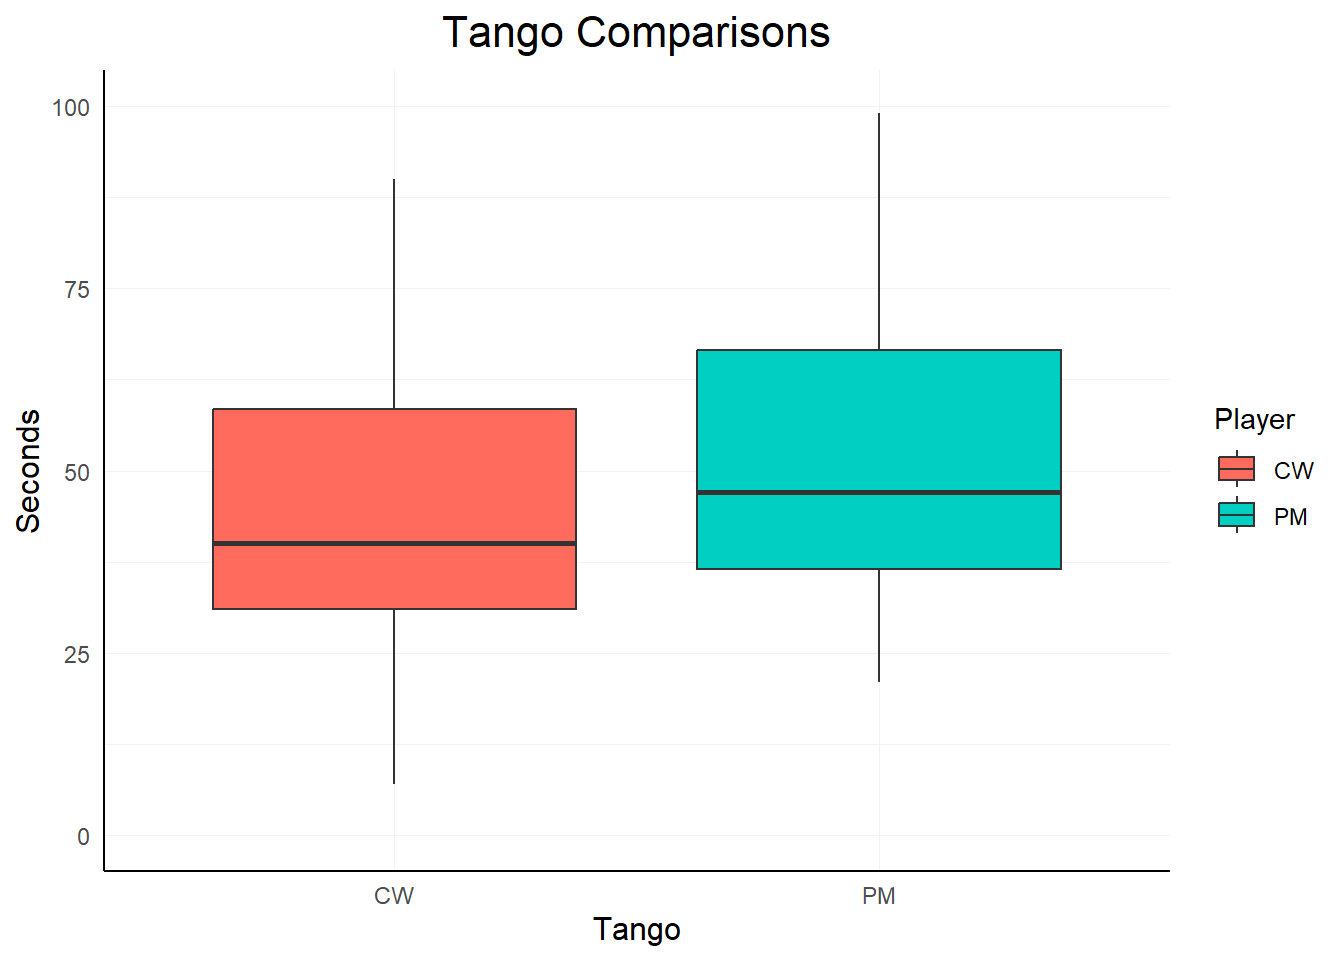
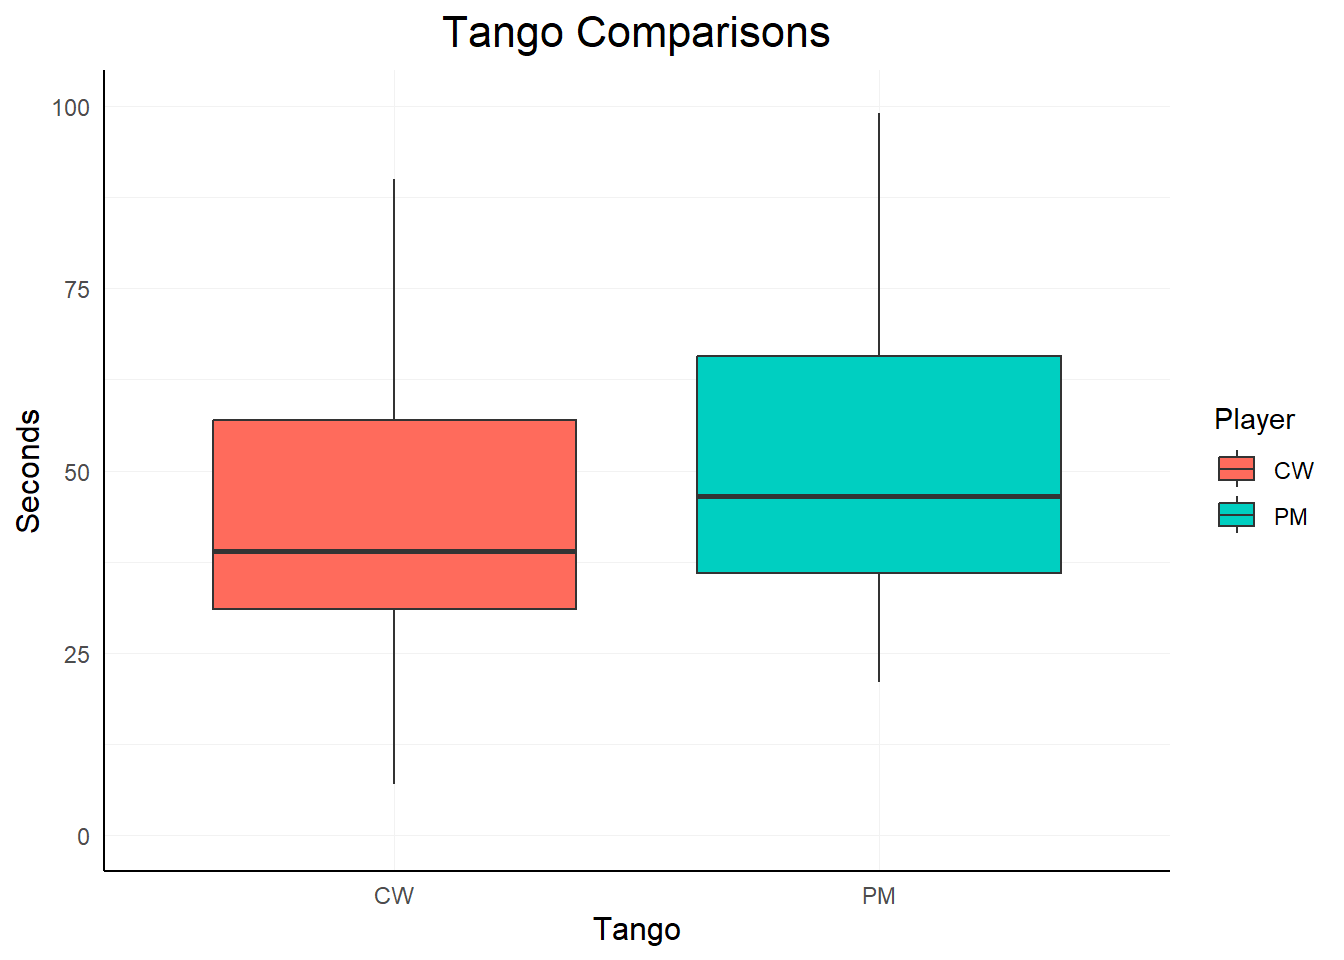
data commits

diff --git a/docs/projects/LinkedIn_games/Tango_analysis.html b/docs/projects/LinkedIn_games/Tango_analysis.html
@@ -169,10 +169,7 @@ pre > code.sourceCode > span > a:first-child::before { text-decoration: underlin
    
   <ul>
   <li><a href="#descriptive-statistics" id="toc-descriptive-statistics" class="nav-link active" data-scroll-target="#descriptive-statistics">Descriptive statistics</a></li>
-  <li><a href="#time-series-visualizations" id="toc-time-series-visualizations" class="nav-link" data-scroll-target="#time-series-visualizations">Time-series visualizations</a>
-  <ul class="collapse">
-  <li><a href="#purpose-of-timeseries-visualizations" id="toc-purpose-of-timeseries-visualizations" class="nav-link" data-scroll-target="#purpose-of-timeseries-visualizations">Purpose of Time‐Series Visualizations</a></li>
-  </ul></li>
+  <li><a href="#time-series-visualizations" id="toc-time-series-visualizations" class="nav-link" data-scroll-target="#time-series-visualizations">Time-series visualizations</a></li>
   <li><a href="#boxplot-comparisons" id="toc-boxplot-comparisons" class="nav-link" data-scroll-target="#boxplot-comparisons">Boxplot comparisons</a></li>
   <li><a href="#bayesian-independent-t-test-comparisons" id="toc-bayesian-independent-t-test-comparisons" class="nav-link" data-scroll-target="#bayesian-independent-t-test-comparisons">Bayesian Independent T-test comparisons</a>
   <ul class="collapse">
@@ -191,6 +188,7 @@ pre > code.sourceCode > span > a:first-child::before { text-decoration: underlin
   <div class="quarto-categories">
     <div class="quarto-category">code</div>
     <div class="quarto-category">analysis</div>
+    <div class="quarto-category">bayesian</div>
   </div>
   </div>
 
@@ -222,7 +220,7 @@ pre > code.sourceCode > span > a:first-child::before { text-decoration: underlin
 
 <p>This is a personal project to create a live analysis pipeline that will show descriptive analysis of daily LinkedIn games records between <code>PM</code> and <code>CW</code>.</p>
 <p>This pipeline will serve to elucidate who is the better overall player in LinkedIn games (Tango, Zip, Pinpoint and Cross climb) to date; between players <code>PM</code> and <code>CW</code>. Beginning from April 29th till today, <strong>June 05, 2025</strong>, data will continually be updated manually in the raw .xlsx file and ran through the pipeline for analysis when rendered.</p>
-<p>In addition to summarizing means, medians, and visualizing score distributions over time, this document also employs Bayesian independent‐samples t‐tests for each game type to quantify the strength of evidence for performance differences between PM and CW. In each case, Bayes factors (BF<sub>10</sub>) is computed along with prior and posterior distributions plotted to illustrate how observed data update our beliefs about any effect (see <a href="#nte-impt" class="quarto-xref">Note&nbsp;1</a> below).</p>
+<p>In addition to summarizing means, medians, standard deviations, and visualizing score distributions over time, this document also employs Bayesian independent‐samples t‐tests for each game type to quantify the strength of evidence for performance differences between PM and CW. In each case, Bayes factors (BF<sub>10</sub>) is computed along with prior and posterior distributions plotted to illustrate how observed data update our beliefs about any effect (see <a href="#nte-impt" class="quarto-xref">Note&nbsp;1</a> below).</p>
 <p>This document aims to describe, visualize, and evaluate, using both descriptive statistics and Bayesian hypothesis tests, to assess the differences in scores between the two players.</p>
 <div class="cell">
 <div class="sourceCode cell-code" id="cb1"><pre class="sourceCode r code-with-copy"><code class="sourceCode r"><span id="cb1-1"><a href="#cb1-1" aria-hidden="true" tabindex="-1"></a><span class="co"># Libraries utilized</span></span>
@@ -258,7 +256,7 @@ pre > code.sourceCode > span > a:first-child::before { text-decoration: underlin
 </div>
 <section id="descriptive-statistics" class="level1">
 <h1>Descriptive statistics</h1>
-<p>In this section, descriptive statistics will be computed during render.</p>
+<p>This section summarizes the central tendencies and variability in the players’ daily game performance across the four game types (Tango (T), Zip(Z), Pinpoint(P), and Crossclimb(C)), using standard measures of mean, median and standard deviation.</p>
 <div class="cell">
 <details class="code-fold">
 <summary>Show the code</summary>
@@ -352,58 +350,58 @@ pre > code.sourceCode > span > a:first-child::before { text-decoration: underlin
 <tr class="odd">
 <td style="text-align: center;">CW</td>
 <td style="text-align: center;">C</td>
-<td style="text-align: center;">60.8</td>
-<td style="text-align: center;">57</td>
-<td style="text-align: center;">22.9</td>
+<td style="text-align: center;">60.1</td>
+<td style="text-align: center;">53.0</td>
+<td style="text-align: center;">22.4</td>
 </tr>
 <tr class="even">
 <td style="text-align: center;">CW</td>
 <td style="text-align: center;">P</td>
 <td style="text-align: center;">3.7</td>
-<td style="text-align: center;">4</td>
+<td style="text-align: center;">4.0</td>
 <td style="text-align: center;">1.2</td>
 </tr>
 <tr class="odd">
 <td style="text-align: center;">CW</td>
 <td style="text-align: center;">T</td>
-<td style="text-align: center;">50.9</td>
-<td style="text-align: center;">40</td>
-<td style="text-align: center;">33.7</td>
+<td style="text-align: center;">49.6</td>
+<td style="text-align: center;">39.0</td>
+<td style="text-align: center;">33.2</td>
 </tr>
 <tr class="even">
 <td style="text-align: center;">CW</td>
 <td style="text-align: center;">Z</td>
-<td style="text-align: center;">34.0</td>
-<td style="text-align: center;">20</td>
-<td style="text-align: center;">43.4</td>
+<td style="text-align: center;">32.7</td>
+<td style="text-align: center;">19.0</td>
+<td style="text-align: center;">42.5</td>
 </tr>
 <tr class="odd">
 <td style="text-align: center;">PM</td>
 <td style="text-align: center;">C</td>
 <td style="text-align: center;">65.0</td>
-<td style="text-align: center;">62</td>
+<td style="text-align: center;">62.0</td>
 <td style="text-align: center;">24.9</td>
 </tr>
 <tr class="even">
 <td style="text-align: center;">PM</td>
 <td style="text-align: center;">P</td>
+<td style="text-align: center;">2.9</td>
 <td style="text-align: center;">3.0</td>
-<td style="text-align: center;">3</td>
 <td style="text-align: center;">1.1</td>
 </tr>
 <tr class="odd">
 <td style="text-align: center;">PM</td>
 <td style="text-align: center;">T</td>
-<td style="text-align: center;">63.3</td>
-<td style="text-align: center;">47</td>
-<td style="text-align: center;">49.9</td>
+<td style="text-align: center;">62.3</td>
+<td style="text-align: center;">46.5</td>
+<td style="text-align: center;">49.5</td>
 </tr>
 <tr class="even">
 <td style="text-align: center;">PM</td>
 <td style="text-align: center;">Z</td>
-<td style="text-align: center;">37.9</td>
-<td style="text-align: center;">17</td>
-<td style="text-align: center;">53.0</td>
+<td style="text-align: center;">37.1</td>
+<td style="text-align: center;">16.5</td>
+<td style="text-align: center;">52.5</td>
 </tr>
 </tbody>
 </table>
@@ -411,30 +409,28 @@ pre > code.sourceCode > span > a:first-child::before { text-decoration: underlin
 </div>
 <p>As of April 29 2025 through June 05, 2025, for <strong>Tango</strong>:</p>
 <ul>
-<li>PM’s average time is <strong>63.3</strong> seconds, with the median time being <strong>47</strong> seconds.</li>
-<li>CW’s average time is <strong>50.9</strong> seconds, with the median time being <strong>40</strong> seconds.</li>
+<li>PM’s average time is <strong>62.3</strong> seconds, with the median time being <strong>46.5</strong> seconds.</li>
+<li>CW’s average time is <strong>49.6</strong> seconds, with the median time being <strong>39</strong> seconds.</li>
 </ul>
 <p>For <strong>Zip</strong>:</p>
 <ul>
-<li>PM’s average time is <strong>37.9</strong> seconds, with the median time being <strong>17</strong> seconds.</li>
-<li>CW’s average time is <strong>34</strong> seconds, with the median time being <strong>20</strong> seconds.</li>
+<li>PM’s average time is <strong>37.1</strong> seconds, with the median time being <strong>16.5</strong> seconds.</li>
+<li>CW’s average time is <strong>32.7</strong> seconds, with the median time being <strong>19</strong> seconds.</li>
 </ul>
 <p>For <strong>Pinpoint</strong>:</p>
 <ul>
-<li>PM’s average number of tries is <strong>3</strong>, the number of median tries being <strong>3</strong>.<br>
+<li>PM’s average number of tries is <strong>2.9</strong>, the number of median tries being <strong>3</strong>.<br>
 </li>
 <li>CW’s average number of tries is <strong>3.7</strong>, the number of median tries being <strong>4</strong>.</li>
 </ul>
 <p>For <strong>Crossclimb</strong>:</p>
 <ul>
 <li>PM’s average time is <strong>65</strong> seconds, with the median time being <strong>62</strong> seconds.</li>
-<li>CW’s average time is <strong>60.8</strong> seconds, with the median time being <strong>57</strong> seconds.</li>
+<li>CW’s average time is <strong>60.1</strong> seconds, with the median time being <strong>53</strong> seconds.</li>
 </ul>
 </section>
 <section id="time-series-visualizations" class="level1">
 <h1>Time-series visualizations</h1>
-<section id="purpose-of-timeseries-visualizations" class="level2">
-<h2 class="anchored" data-anchor-id="purpose-of-timeseries-visualizations">Purpose of Time‐Series Visualizations</h2>
 <p>The time‐series plots display each player’s daily performance (e.g., completion time (seconds) or number of tries) on the x‐axis (date) and the corresponding score on the y‐axis.</p>
 <p>These visualizations provide comparisons of variability and stability to assess player score fluctuations and identify any days with unusually high or low values (and identify and potential outliers). It provides an intuitive and chronological overview of how PM and CW’s LinkedIn game scores evolve.</p>
 <p>The data is first subset into the four game type prior to visualizations.</p>
@@ -545,7 +541,6 @@ pre > code.sourceCode > span > a:first-child::before { text-decoration: underlin
 </div>
 </div>
 </div>
-</section>
 </section>
 <section id="boxplot-comparisons" class="level1">
 <h1>Boxplot comparisons</h1>
@@ -742,12 +737,12 @@ Note&nbsp;1: IMPORTANT NOTE
 <tr class="odd">
 <td style="text-align: left;">group</td>
 <td style="text-align: right;">1</td>
-<td style="text-align: right;">0.517</td>
-<td style="text-align: right;">0.474</td>
+<td style="text-align: right;">0.598</td>
+<td style="text-align: right;">0.442</td>
 </tr>
 <tr class="even">
 <td style="text-align: left;"></td>
-<td style="text-align: right;">68</td>
+<td style="text-align: right;">71</td>
 <td style="text-align: right;">NA</td>
 <td style="text-align: right;">NA</td>
 </tr>
@@ -799,12 +794,12 @@ Note&nbsp;1: IMPORTANT NOTE
 <tr class="odd">
 <td style="text-align: left;">group</td>
 <td style="text-align: right;">1</td>
-<td style="text-align: right;">0.1</td>
-<td style="text-align: right;">0.753</td>
+<td style="text-align: right;">0.118</td>
+<td style="text-align: right;">0.732</td>
 </tr>
 <tr class="even">
 <td style="text-align: left;"></td>
-<td style="text-align: right;">68</td>
+<td style="text-align: right;">71</td>
 <td style="text-align: right;">NA</td>
 <td style="text-align: right;">NA</td>
 </tr>
@@ -856,12 +851,12 @@ Note&nbsp;1: IMPORTANT NOTE
 <tr class="odd">
 <td style="text-align: left;">group</td>
 <td style="text-align: right;">1</td>
-<td style="text-align: right;">0.229</td>
-<td style="text-align: right;">0.634</td>
+<td style="text-align: right;">0.406</td>
+<td style="text-align: right;">0.526</td>
 </tr>
 <tr class="even">
 <td style="text-align: left;"></td>
-<td style="text-align: right;">65</td>
+<td style="text-align: right;">68</td>
 <td style="text-align: right;">NA</td>
 <td style="text-align: right;">NA</td>
 </tr>
@@ -913,12 +908,12 @@ Note&nbsp;1: IMPORTANT NOTE
 <tr class="odd">
 <td style="text-align: left;">group</td>
 <td style="text-align: right;">1</td>
-<td style="text-align: right;">0.432</td>
-<td style="text-align: right;">0.513</td>
+<td style="text-align: right;">0.242</td>
+<td style="text-align: right;">0.624</td>
 </tr>
 <tr class="even">
 <td style="text-align: left;"></td>
-<td style="text-align: right;">67</td>
+<td style="text-align: right;">69</td>
 <td style="text-align: right;">NA</td>
 <td style="text-align: right;">NA</td>
 </tr>
@@ -997,7 +992,7 @@ Note&nbsp;1: IMPORTANT NOTE
 <tbody>
 <tr class="odd">
 <td style="text-align: left;">Tango</td>
-<td style="text-align: right;">0.463</td>
+<td style="text-align: right;">0.493</td>
 <td style="text-align: left;">Evidence favoring H0 or inconclusive</td>
 </tr>
 </tbody>
@@ -1253,7 +1248,7 @@ Note&nbsp;1: IMPORTANT NOTE
 <tbody>
 <tr class="odd">
 <td style="text-align: left;">Pinpoint</td>
-<td style="text-align: right;">3.232</td>
+<td style="text-align: right;">3.974</td>
 <td style="text-align: left;">Evidence favoring difference (H1)</td>
 </tr>
 </tbody>
@@ -1381,7 +1376,7 @@ Note&nbsp;1: IMPORTANT NOTE
 <tbody>
 <tr class="odd">
 <td style="text-align: left;">Crossclimb</td>
-<td style="text-align: right;">0.312</td>
+<td style="text-align: right;">0.34</td>
 <td style="text-align: left;">Evidence favoring H0 or inconclusive</td>
 </tr>
 </tbody>

diff --git a/docs/blog.html b/docs/blog.html
@@ -279,7 +279,7 @@ Harlow Malloc
 </a>
 </div>
 </div>
-<div class="quarto-post image-right" data-index="1" data-categories="bmV3cw==" data-listing-date-sort="1666393200000" data-listing-file-modified-sort="1748727456350" data-listing-date-modified-sort="NaN" data-listing-reading-time-sort="1" data-listing-word-count-sort="32">
+<div class="quarto-post image-right" data-index="1" data-categories="bmV3cw==" data-listing-date-sort="1666393200000" data-listing-file-modified-sort="1749075699939" data-listing-date-modified-sort="NaN" data-listing-reading-time-sort="1" data-listing-word-count-sort="32">
 <div class="thumbnail">
 <p><a href="./blog/welcome/index.html" class="no-external"></a></p><a href="./blog/welcome/index.html" class="no-external">
 <p class="card-img-top"><img src="blog\welcome\thumbnail.jpg"  class="thumbnail-image card-img"/></p>
@@ -298,7 +298,7 @@ news
 </div>
 </div>
 <div class="listing-description">
-<a href="./blog/welcome/index.html" class="no-external">This is the first post in a Quarto blog. Welcome!</a>
+<a href="./blog/welcome/index.html" class="no-external">Hello, this is the description to my blog</a>
 </div>
 </div>
 <div class="metadata">

diff --git a/docs/projects/index.html b/docs/projects/index.html
@@ -256,7 +256,7 @@ window.Quarto = {
 <p>It is convenient to use <code>id</code> to link to multiple folders.</p>
 <div id="listing-ehr" class="quarto-listing quarto-listing-container-grid">
 <div class="list grid quarto-listing-cols-3">
-<div class="g-col-1" data-index="0" data-categories="Y29kZSUyQ2FuYWx5c2lzJTJDYmF5ZXNpYW4=" data-listing-date-sort="1748732400000" data-listing-file-modified-sort="1749078050937" data-listing-date-modified-sort="NaN" data-listing-reading-time-sort="27" data-listing-word-count-sort="5293">
+<div class="g-col-1" data-index="0" data-categories="Y29kZSUyQ2FuYWx5c2lzJTJDYmF5ZXNpYW4=" data-listing-date-sort="1748732400000" data-listing-file-modified-sort="1749127775883" data-listing-date-modified-sort="NaN" data-listing-reading-time-sort="27" data-listing-word-count-sort="5315">
 <a href="../projects/LinkedIn_games/Tango_analysis.html" class="quarto-grid-link">
 <div class="quarto-grid-item card h-100 card-left borderless">
 <p class="card-img-top"><img src="LinkedIn_games\Tango_analysis_files\figure-html\t-ts-1.png" style="height: 150px;"  class="thumbnail-image card-img"/></p>

diff --git a/docs/blog/welcome/index.html b/docs/blog/welcome/index.html
@@ -8,6 +8,7 @@
 
 <meta name="author" content="Tristan O’Malley">
 <meta name="dcterms.date" content="2022-10-22">
+<meta name="description" content="Hello, this is the description to my blog">
 
 <title>Welcome To My Blog – Ho Chin Wei</title>
 <style>
@@ -125,7 +126,12 @@ ul.task-list li input[type="checkbox"] {
   <div class="quarto-title-banner page-columns page-full">
     <div class="quarto-title column-body">
       <h1 class="title">Welcome To My Blog</h1>
-                                <div class="quarto-categories">
+                  <div>
+        <div class="description">
+          Hello, this is the description to my blog
+        </div>
+      </div>
+                          <div class="quarto-categories">
                 <div class="quarto-category">news</div>
               </div>
                   </div>
